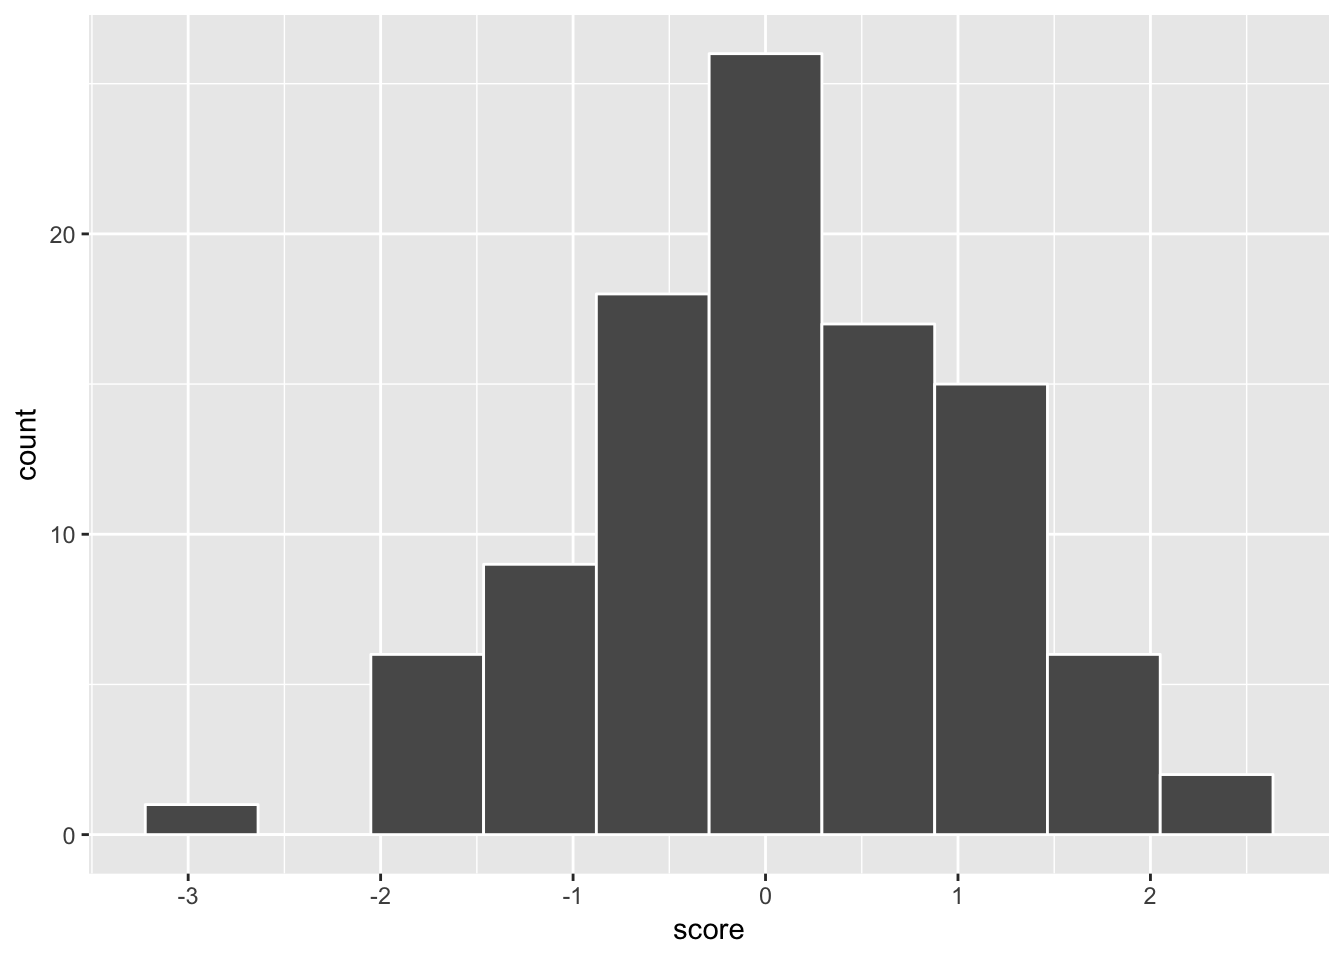
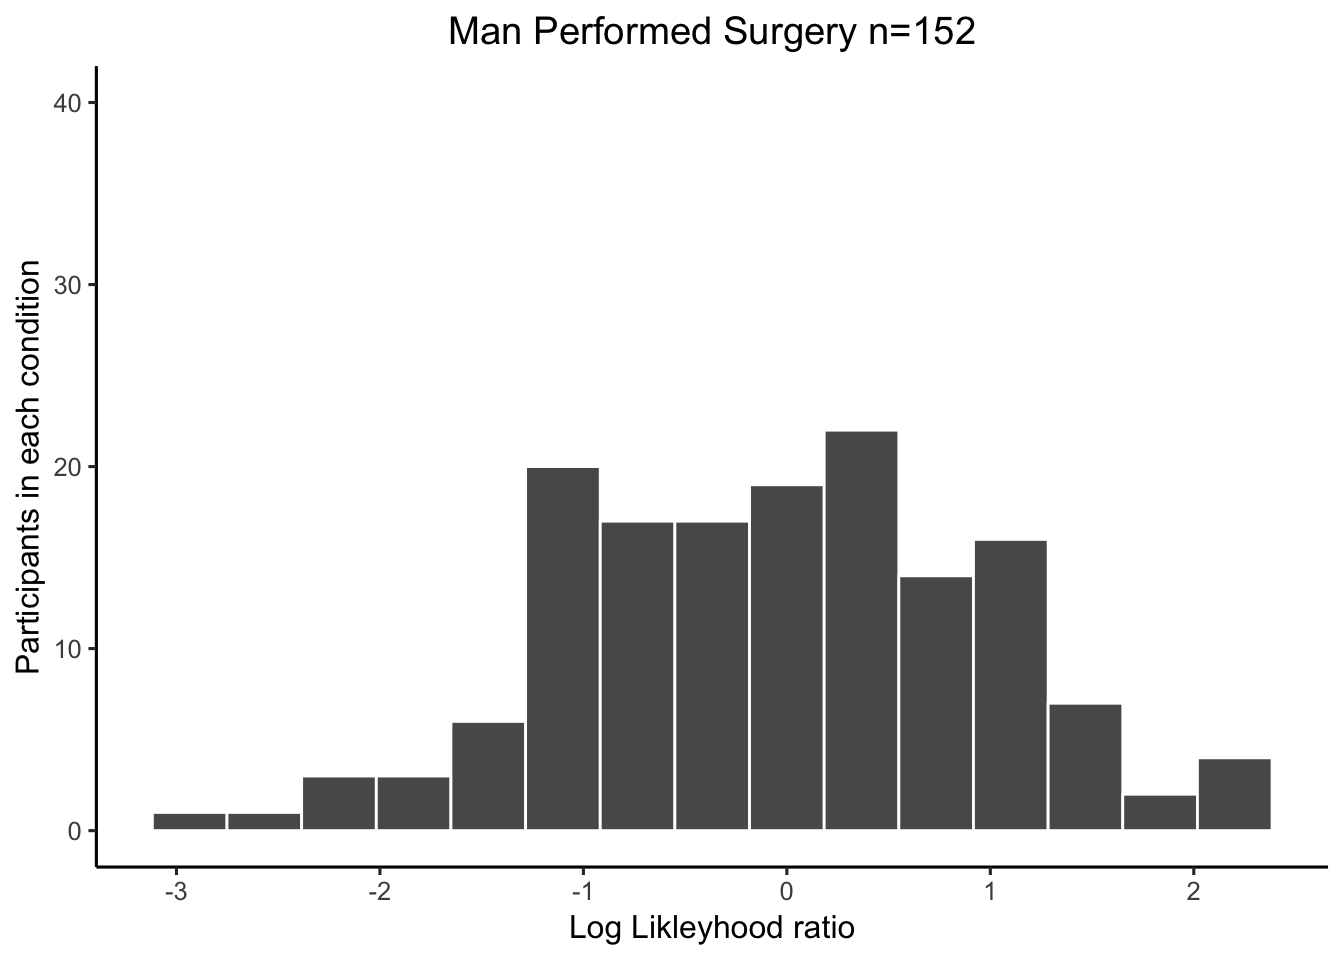
histogram

diff --git a/docs/examples.html b/docs/examples.html
@@ -506,13 +506,19 @@ ggplot(plot_df, aes(x=factor_one,y=dv_means, group=1))+
 </div>
 <div id="make-a-histogram" class="section level3">
 <h3>Make a Histogram</h3>
-<pre class="r"><code>score &lt;- rnorm(100,0,1)
-n &lt;- 1:100
+<pre class="r"><code>score &lt;- rnorm(152,0,1)
+n &lt;- 1:152
 plot_df &lt;- data.frame(score,n)
 
 ggplot(plot_df, aes(x=score))+
-  geom_histogram(bins=10,
-                 color=&quot;white&quot;)</code></pre>
+  geom_histogram(bins=15,
+                 color=&quot;white&quot;)+
+  coord_cartesian(ylim=c(0,40))+
+   xlab(&quot;Log Likleyhood ratio&quot;)+
+  ylab(&quot;Participants in each condition&quot;)+
+  ggtitle(&quot;Man Performed Surgery n=152&quot;)+
+  theme_classic(base_size=12)+
+  theme(plot.title = element_text(hjust = 0.5))</code></pre>
 <p><img src="examples_files/figure-html/unnamed-chunk-5-1.png" width="672" /></p>
 </div>
 </div>
